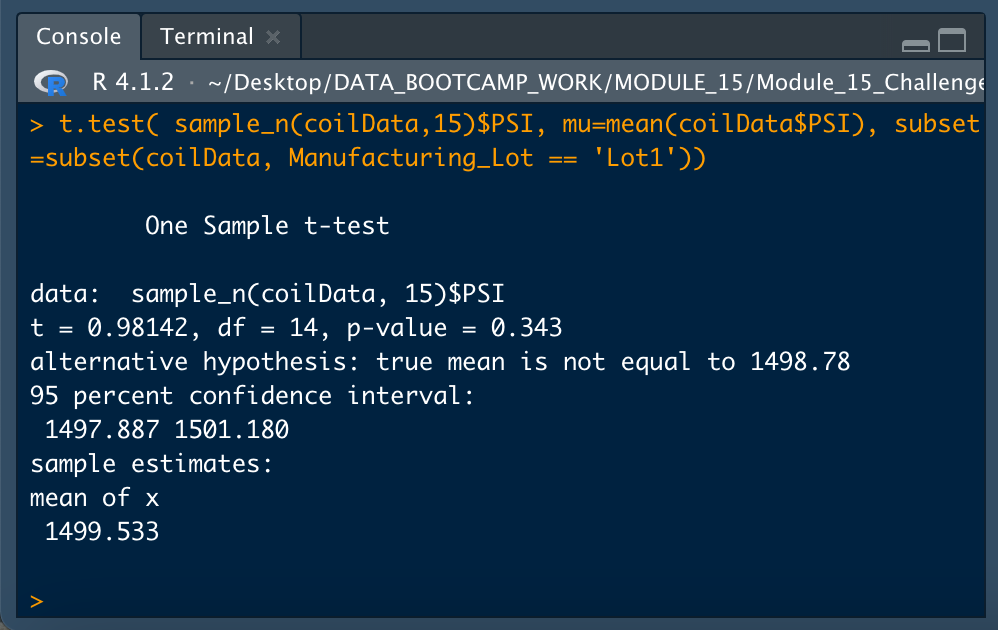
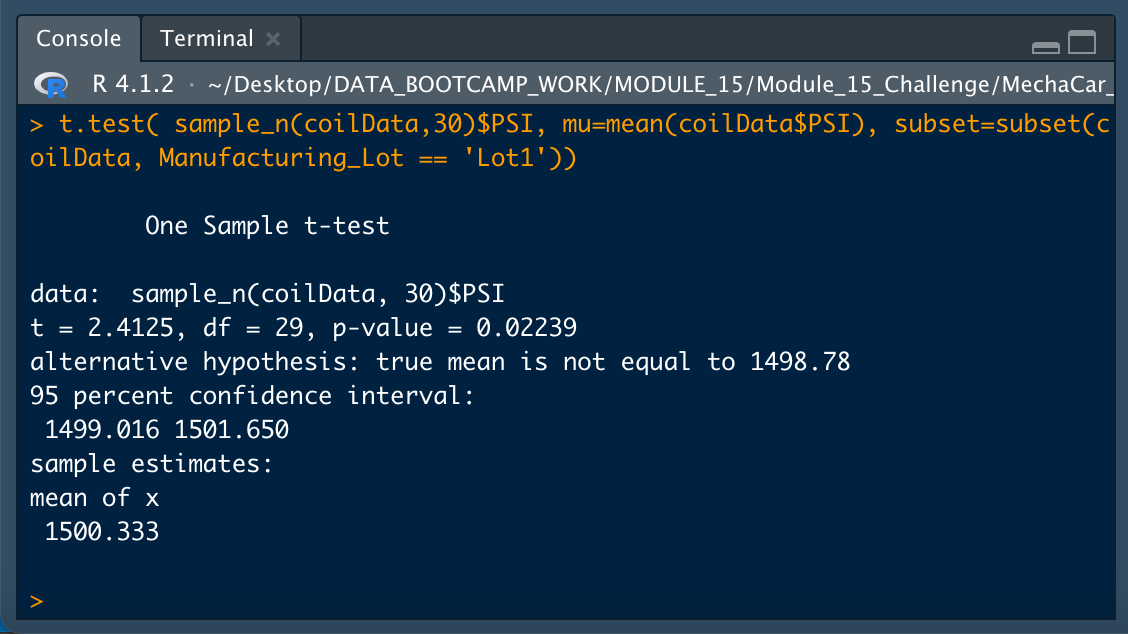
adding deliverable 3 text and images to readme.

diff --git a/README.md b/README.md
@@ -47,13 +47,13 @@ To determine if the manufacturing data meets this design specification, we first
 
 ![PSI Total Summary](Resources/images/psi_total_summary.png)
 
-As reported, for the whole population, the design specification seems to be meet, since the variance reported was 62.29356 psi, a value within the 100 psi specification. However, we also looked at the variance for each lot, to determine whether this held true for each.
+For the whole population, the design specification seems to be met, since the variance reported was 62.29356 psi, a value within the 100 psi specification. However, we also looked at the variance for each lot, to determine whether this held true for each.
 
 The following table presents the summary statistics for each lot:
 
 ![PSI Lot Summary](Resources/images/psi_lot_summary.png)
 
-As can be seen, Lot 1 and Lot 2 are meeting the manufacturing specifications, since their reported variance were 0.98 psi and 7.47 psi respectively. Lot 3, on the other hand, reported a variance of 170.29 psi, which is significantly higher than the manufacturing specification of no more than 100 psi. 
+As can be seen, Lot 1 and Lot 2 are meeting the manufacturing specifications, since their reported variance were 0.98 psi and 7.47 psi respectively. Lot 3, on the other hand, reported a variance of 170.29 psi, which is significantly higher than the manufacturing specification of 100 psi. 
 
 Therefore, while the manufacturing data meets this specification for the lots in total, it is not being met by all lots individually. 
 
@@ -65,22 +65,48 @@ The following box plot provides a better appreciation of the statistics for each
 
 ## Deliverable 3 - T-Tests on Suspension Coils
 
+For our third statistical analysis, we used *R*'s *t.test()* function to conduct t-tests to determine if all manufacturing lots and each lot individually are statistically different from the population mean of 1,500 pounds per square inch.
+
+Before conducting the different t-tests, we inspected the data to understand if it conformed to a normal distribution. This was done visually for the whole population as well as for each lot, using *ggplot2*'s *geom_density()* function. Then, we conducted a Shapiro-Wilk test using *R*'s *shapiro.test()* function on the whole population as well as on each lot. The results are as follows:
+
+
+### Data for the Whole Population
+
 ![PSI Population Distribution](Resources/images/psi_population_dist.png)
+
+
+### Data for the Whole Lot 1
 
 ![Lot 1 PSI Distribution](Resources/images/psi_lot1_distribution.png)
 
+
+### Data for the Whole Lot 2
+
 ![Lot 2 PSI Distribution](Resources/images/psi_lot2_distribution.png)
+
+
+### Data for the Whole Lot 3
 
 ![Lot 3 PSI Distribution](Resources/images/psi_lot3_distribution.png)
 
+### Shapiro Test for Each Group
+
 ![Shapiro Normality Tests](Resources/images/shapiro_normality_tests.png)
 
+After considering the data, and seeing that visually both the population, Lot 2 and Lot 3 have minor skewness, and that only Lot 2 has a  a *p-value* greater than 0.05 in order to meet our significance level for the Shapiro-Wilks Test, we opted for a minimum sample size greater than 20 in conducting one sample t-tests, in order to rely on the *Central Limit Theorem* (source: https://www.spss-tutorials.com/spss-shapiro-wilk-test-for-normality/). 
+
+These t-tests were conducted for the whole population as well as for each lot using *R*'s *t.test()* function with the *subset* argument. We also used a sample size of 30 to be on the safe side.
+
+### T-Test for the Population
 ![One-Sample T-Test - Population](Resources/images/onesample_t-test_population.png)
 
+### T-Test for Lot 1
 ![One-Sample T-Test - Lot 1](Resources/images/onesample_t-test_lot1.png)
 
+### T-Test for Lot 2
 ![One-Sample T-Test - Lot 2](Resources/images/onesample_t-test_lot2.png)
 
+### T-Test for Lot 3
 ![One-Sample T-Test - Lot 3](Resources/images/onesample_t-test_lot3.png)
 
 
